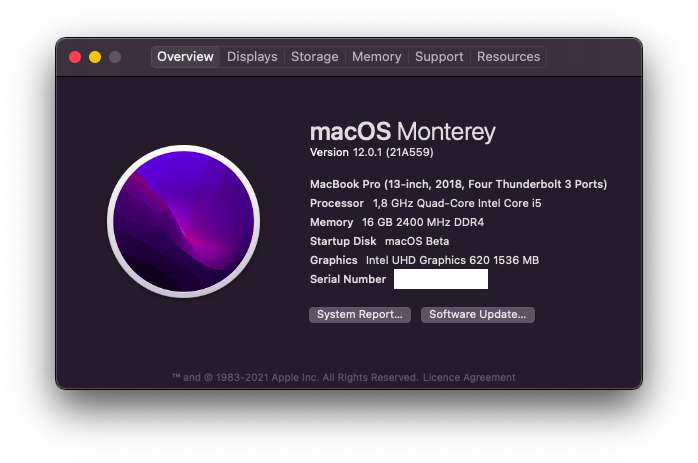
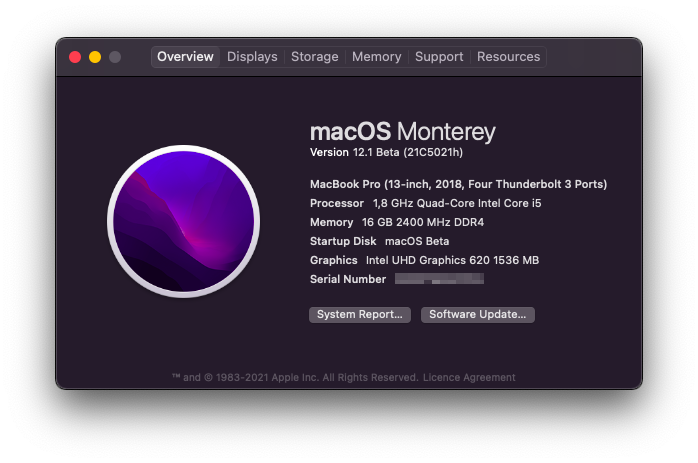
Updated to macOS Monterey 12.1 beta (21C5021h)

Changed region(s): [[0.5415, 0.5745, 0.7221, 0.635], [0.5115, 0.3024, 0.6619, 0.3629]]

diff --git a/README.md b/README.md
@@ -13,7 +13,7 @@
 | **Storage**    | `Western Digital SN750 Black NVMe 512GB`  |
 | **Audio Code** | `Realtek ALC295 (ALC3254)`                |
 | **WiFi Card**  | `BCM943602BAED aka DW1830`                |
-| **OS**         | `macOS Monterey 12.0.1 RC2 (21A559)`      |
+| **OS**         | `macOS Monterey 12.1 Beta (21C5021h)`     |
 | **BIOS**       | `v1.18`                                   |
 
 
